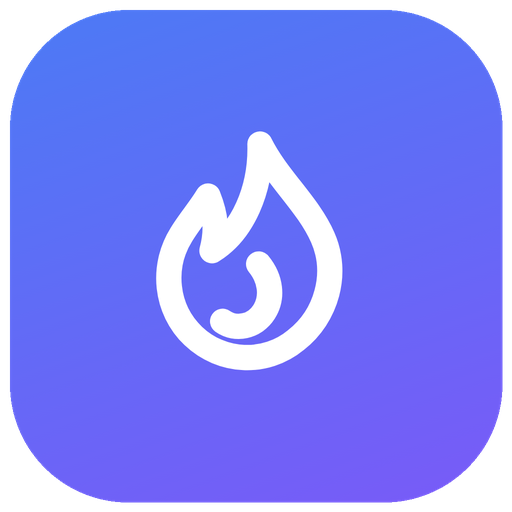
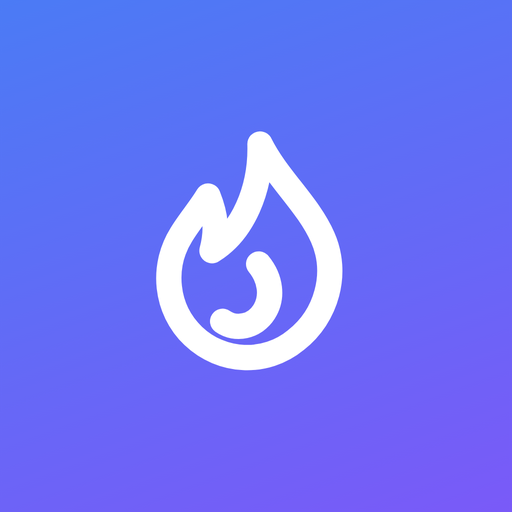
v1.45 — the badge is a choice again
The count on the app icon is off unless switched on in Settings
(settings.badge === true); the badge row toggles "Show…" / "Hide…" and
clearing happens at once. Until now the badge appeared by itself the
moment notifications were allowed — and the daily reminder allows them,
which put a number on Martin's icon he never asked for.

icon-192/icon-512 were pre-rounded tiles with transparent corners, so
iOS rounded them a second time in notifications and in Settings →
Notifications; they now carry the same full-bleed flame as the
apple-touch-icon.

Third UI test: the badge stays off after notifications are allowed,
shows the count when switched on, clears when switched off (seen red
with the default inverted).

Changed region(s): [[0.0, 0.0, 1.0, 1.0]]

diff --git a/index.html b/index.html
@@ -12,7 +12,7 @@
     <link rel="manifest" href="manifest.json">
     <link rel="icon" type="image/png" sizes="64x64" href="icons/favicon-64.png">
     <link rel="apple-touch-icon" href="icons/apple-touch-icon.png">
-    <link rel="stylesheet" href="css/style.css?v=65">
+    <link rel="stylesheet" href="css/style.css?v=66">
 </head>
 <body>
 
@@ -185,7 +185,7 @@
             <button id="btn-import" class="list-btn"><span data-hi="import"></span> Import backup</button>
             <button id="btn-csv" class="list-btn"><span data-hi="chart"></span> Export CSV for Excel</button>
             <button id="btn-histimport" class="list-btn"><span data-hi="timer"></span> Import fasting history</button>
-            <button id="btn-badge" class="list-btn"><span data-hi="sunrise"></span> Show the count on the app icon</button>
+            <button id="btn-badge" class="list-btn" data-on="0" data-testid="badge-toggle"><span data-hi="sunrise"></span> Show the count on the app icon</button>
             <div id="row-reminder" class="list-row" data-on="0" data-testid="reminder-row">
                 <button id="btn-reminder" class="list-row-btn" data-testid="reminder-toggle"><span data-hi="bell"></span> <span id="reminder-label">Daily reminder: off</span></button>
                 <input id="reminder-time" type="time" value="20:00" aria-label="Reminder time" data-testid="reminder-time">
@@ -233,7 +233,7 @@
                     <p><strong>Text size</strong> — the app follows the iPhone's Display &amp; Text Size setting: make text larger (or smaller) there and every screen scales with it, icons and buttons included.</p>
                     <p><strong>Gestures</strong> — swipe the month calendar left or right to change months, and drag any bottom sheet downward to close it. The Today header shows the day bar: one segment per habit scheduled today, filling left to right as you check things off, with the filled color moving from red through amber to green as the day nears complete. When the last scheduled habit of the day is checked off, the bar celebrates with a brief pop and a hand-drawn checkmark. Screens slide like native iOS: details and stats push in from the right, going back slides home from the left (both stay still if the system's reduce-motion setting is on). The settings, stats, and add buttons float at the bottom of the screen, within thumb reach.</p>
                     <p><strong>Reorder, layout &amp; theme</strong> — Settings → Reorder habits moves habits up and down the Today list; Settings → Layout switches between the list view and a two-column grid; Settings → Theme picks auto (follow the system), always light, or always dark.</p>
-                    <p><strong>Icon badge</strong> — on an installed app, the home-screen icon can show how many scheduled habits are still open today. An iPhone only allows this once you have said yes to notifications, so it is <strong>off until you switch it on</strong>: Settings → <strong>Show the count on the app icon</strong>, then allow the prompt. (Before v1.29 the app simply tried and failed silently, so the badge never actually appeared.) It updates whenever the app is opened or used — a web app can't change it in the background.</p>
+                    <p><strong>Icon badge</strong> — on an installed app, the home-screen icon can show how many scheduled habits are still open today. It is <strong>off unless you switch it on</strong>: Settings → <strong>Show the count on the app icon</strong>; the same row then reads <strong>Hide the count on the app icon</strong> and takes it away again. An iPhone only allows a badge once you have said yes to notifications — the same permission the daily reminder uses — but allowing notifications no longer switches the badge on by itself (it did until v1.44). It updates whenever the app is opened or used — a web app can't change it in the background.</p>
                     <p><strong>Daily reminder</strong> — Settings → <strong>Daily reminder</strong>: pick the time in the field on the right (20:00 to begin with), tap the row, allow notifications, done. From then on the phone shows a notification every day at that hour — with the app closed — naming what is still open: “2 still open: Intermittent Fasting, Reading”, or simply “Time to fill in your tracked items” if the app has not been opened that day. Tapping it opens the app. When everything scheduled for today is already ticked off before the hour, no reminder comes. Change the time whenever you like; tap the row again to turn it off. It needs the app on your Home Screen (iPhone): in plain Safari the row says so. This is the one thing in the app that leaves the phone — see <em>Why it cannot send itself</em> for exactly what, and why.</p>
                     <p><strong>Aspirations</strong> — Stats &rarr; <strong>Aspirations</strong>. An aspiration is one sentence about who you are becoming: “Strong and durable into my seventies”. No date and no number — the habits carry those. It has no colour of its own either, because colour already means <em>which habit</em> everywhere in this app. Habits are attached from either side: the aspiration's own sheet asks <strong>Which habits serve it?</strong> and lists them all, and editing a habit gains a <strong>Serves</strong> row once an aspiration exists. <em>Nothing in particular</em> is a permanent, perfectly good answer: a habit attached to nothing works exactly as it always has. A habit already under another aspiration shows which, so moving it is deliberate rather than silent.</p>
                     <p><strong>Why it is not just a text field</strong> — every app has a goals box and it is always dead text, because nothing ever reads it back. So each aspiration is answered every week: how many of its habits ran, on its own screen and in last week's analysis and summary. One that has been silent for three weeks is asked about — “Nothing has run under this for 6 weeks. Is it still true?” — rather than left sitting there looking meaningful. The app will also mention once, and then not again for a month, that an aspiration has no habits under it or that some habits serve nothing. Once, because a true sentence repeated every week stops being read.</p>
@@ -254,6 +254,14 @@
             <details class="fold">
                 <summary><span class="fold-title"><span data-hi="scroll"></span> Version history</span></summary>
                 <div class="fold-body" id="version-history">
+                    <h4>v1.45 <span class="vh-date">— 2 Oct 2026</span></h4>
+                    <p>The badge is a choice again.</p>
+                    <ul>
+                        <li><strong>The number on the app icon is off unless you switch it on</strong> — since v1.29 it appeared by itself the moment notifications were allowed, and the daily reminder allows them, so turning the reminder on put a number on your icon you never asked for. It is gone. Settings → <strong>Show the count on the app icon</strong> turns it on; the same row, now reading <strong>Hide the count on the app icon</strong>, turns it off again.</li>
+                        <li><strong>The icon in notifications matches the Home Screen</strong> — the notification and the Notifications list in iPhone Settings use a different icon file than the Home Screen does, and that file was a pre-rounded tile with see-through corners that iOS rounded a second time, which made it look smaller and darker. All icon files now carry the same full-bleed flame. An app already on the Home Screen may keep the icon it was installed with; a fresh installation gets the right one.</li>
+                        <li><strong>A third test</strong> — the icon badge stays off after notifications are allowed, shows the count when switched on, and clears when switched off.</li>
+                    </ul>
+
                     <h4>v1.44 <span class="vh-date">— 2 Oct 2026</span></h4>
                     <p>A reminder at your hour.</p>
                     <ul>
@@ -915,7 +923,7 @@
         <button id="toast-undo">Undo</button>
     </div>
 
-    <script src="js/icons.js?v=65"></script>
-    <script src="js/app.js?v=65"></script>
+    <script src="js/icons.js?v=66"></script>
+    <script src="js/app.js?v=66"></script>
 </body>
 </html>

diff --git a/js/app.js b/js/app.js
@@ -1,7 +1,7 @@
 /* AMS Tracking — simple, visual habit tracker (vanilla JS, localStorage) */
 'use strict';
 
-const APP_VERSION = '1.44';
+const APP_VERSION = '1.45';
 const STORE_KEY = 'amsTracking.v1';
 /* v1.44: in-memory scratch for the reminder (what the service worker was last told, a debounce timer) */
 const RUNTIME = { summaryJson: '', doneTimer: null };
@@ -74,12 +74,22 @@ function save() {
 function badgeAllowed() {
     return typeof Notification !== 'undefined' && Notification.permission === 'granted';
 }
+/* v1.45: the badge is a CHOICE, off unless switched on in Settings. Until now it
+   appeared by itself the moment notifications were allowed — and the daily
+   reminder allows them, which put a number on Martin's icon he never asked for. */
+function badgeWanted() {
+    return state.settings.badge === true;
+}
 function updateBadge() {
     if (!('setAppBadge' in navigator)) return;
     // iOS only grants an installed app a badge once notifications are permitted.
     // Without this the call below rejects, the catch swallows it, and the badge
     // simply never appears — which is exactly what happened until v1.29.
     if (!badgeAllowed()) return;
+    if (!badgeWanted()) {
+        navigator.clearAppBadge().catch(() => {});
+        return;
+    }
     const todayKey = dateKey(new Date());
     const count = state.habits.filter(h => {
         if (h.archived || !isScheduled(h, new Date())) return false;
@@ -5071,8 +5081,10 @@ function refreshBadgeBtn() {
         return;
     }
     b.disabled = false;
-    label.textContent = badgeAllowed()
-        ? ' The count is showing on the app icon'
+    const on = badgeWanted() && badgeAllowed();
+    b.dataset.on = on ? '1' : '0';
+    label.textContent = on
+        ? ' Hide the count on the app icon'
         : ' Show the count on the app icon';
 }
 $('#btn-badge').addEventListener('click', async () => {
@@ -5080,11 +5092,19 @@ $('#btn-badge').addEventListener('click', async () => {
         showToast('This device cannot show a badge on the app icon');
         return;
     }
+    if (badgeWanted() && badgeAllowed()) {
+        state.settings.badge = false;
+        save();                                   // save() → updateBadge() clears it
+        showToast('The count is off the app icon');
+        refreshBadgeBtn();
+        return;
+    }
     try {
         let perm = Notification.permission;
         if (perm === 'default') perm = await Notification.requestPermission();
         if (perm === 'granted') {
-            updateBadge();
+            state.settings.badge = true;
+            save();
             showToast('The count will now show on the app icon');
         } else {
             showToast('Not allowed — turn notifications on for Tracking in iPhone Settings');

diff --git a/tests/ui/badge.spec.js b/tests/ui/badge.spec.js
@@ -1,0 +1,39 @@
+// Test 3: the icon badge is a choice. Allowing notifications (which the daily
+// reminder does) must NOT put a number on the icon by itself; switching the
+// badge on shows the count of open habits; switching it off clears it.
+import { test, expect } from '@playwright/test';
+import { openApp, openSettings, watchErrors, fakeServiceWorker } from './_app.js';
+
+test.use({ permissions: ['notifications'] });
+
+test('stays off after notifications are allowed, shows the count when on, clears when off', async ({ page }) => {
+  const errors = watchErrors(page);
+  await fakeServiceWorker(page);
+  // Record every badge call the app makes: a number for setAppBadge, 0 for clear.
+  await page.addInitScript(() => {
+    window.__badge = [];
+    Object.defineProperty(navigator, 'setAppBadge', { value: async (n) => { window.__badge.push(n); }, configurable: true });
+    Object.defineProperty(navigator, 'clearAppBadge', { value: async () => { window.__badge.push(0); }, configurable: true });
+  });
+  const calls = () => page.evaluate(() => window.__badge);
+
+  await openApp(page);
+  await openSettings(page);
+  const toggle = page.getByTestId('badge-toggle');
+
+  // Permission is granted (the reminder would have done that) — still no number.
+  await expect(toggle).toHaveAttribute('data-on', '0');
+  expect((await calls()).filter((n) => n > 0)).toEqual([]);
+
+  // Switched on: the seeded fasting habit is open today, so the count is 1.
+  await toggle.click();
+  await expect(toggle).toHaveAttribute('data-on', '1');
+  await expect.poll(async () => (await calls()).at(-1)).toBe(1);
+
+  // Switched off: cleared at once.
+  await toggle.click();
+  await expect(toggle).toHaveAttribute('data-on', '0');
+  await expect.poll(async () => (await calls()).at(-1)).toBe(0);
+
+  expect(errors).toEqual([]);
+});

diff --git a/sw.js b/sw.js
@@ -1,4 +1,4 @@
-const CACHE_NAME = 'ams-tracking-v65';
+const CACHE_NAME = 'ams-tracking-v66';
 
 const urlsToCache = [
     '/AMS-Tracking/',
